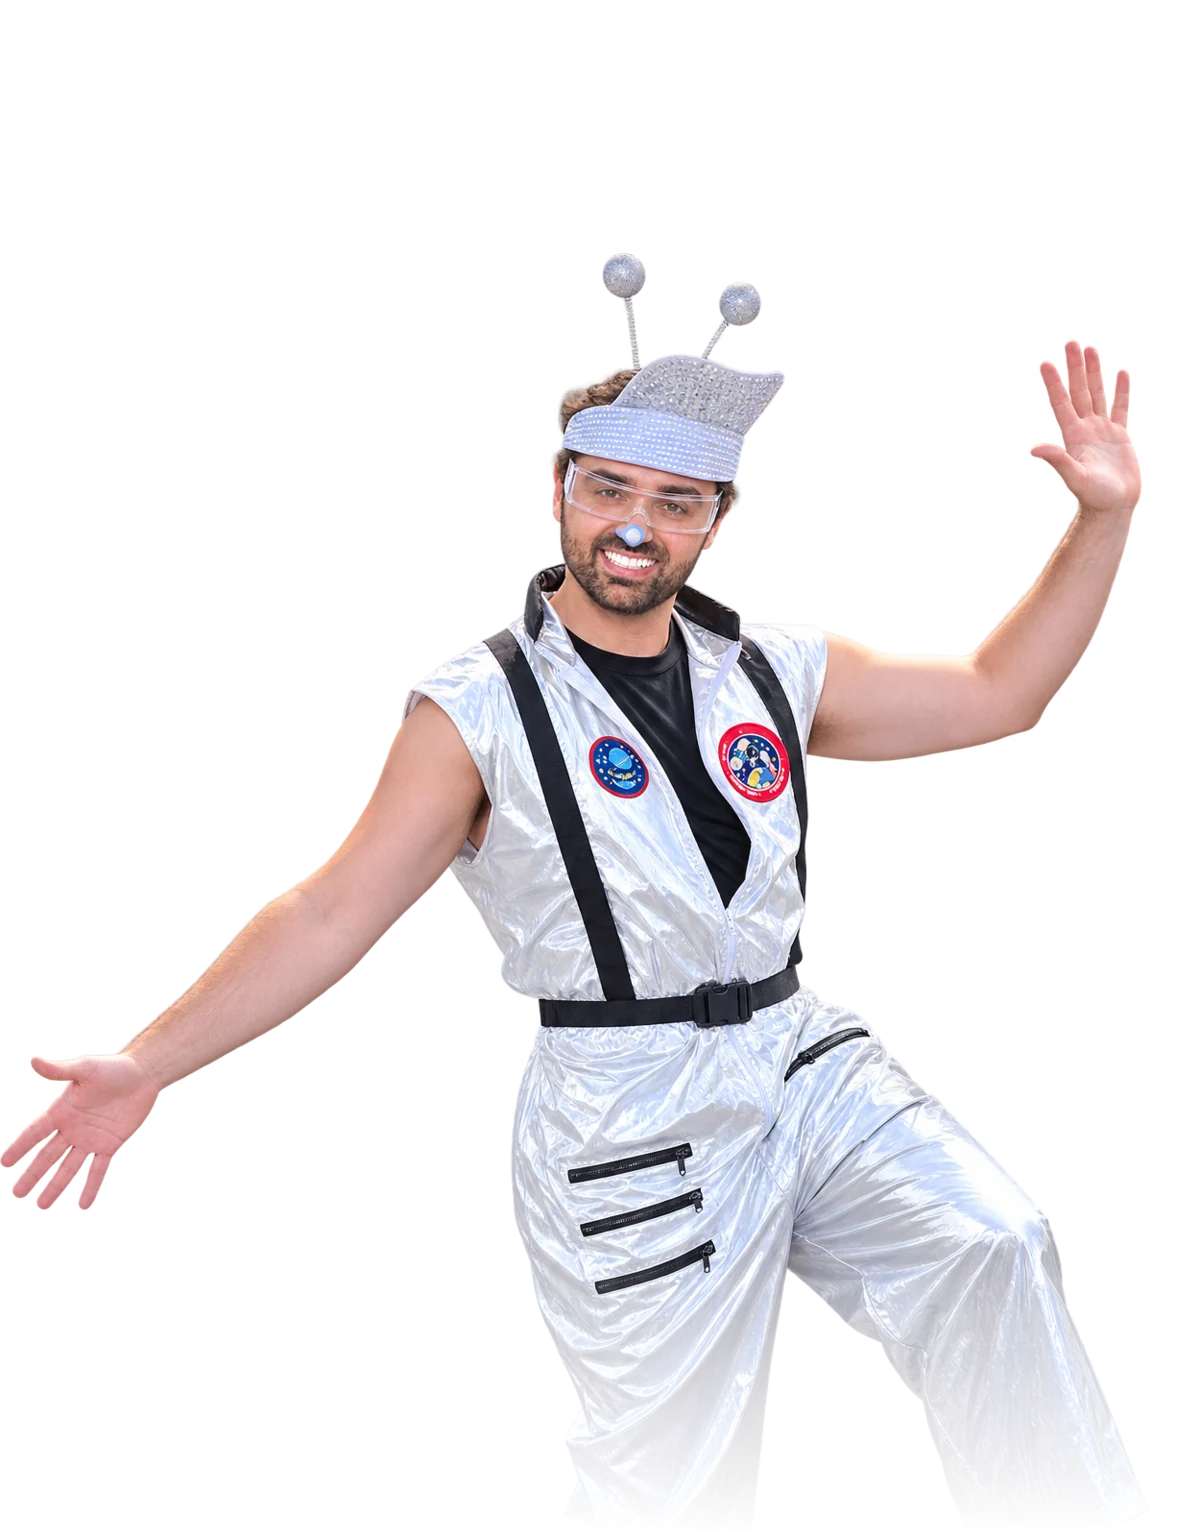
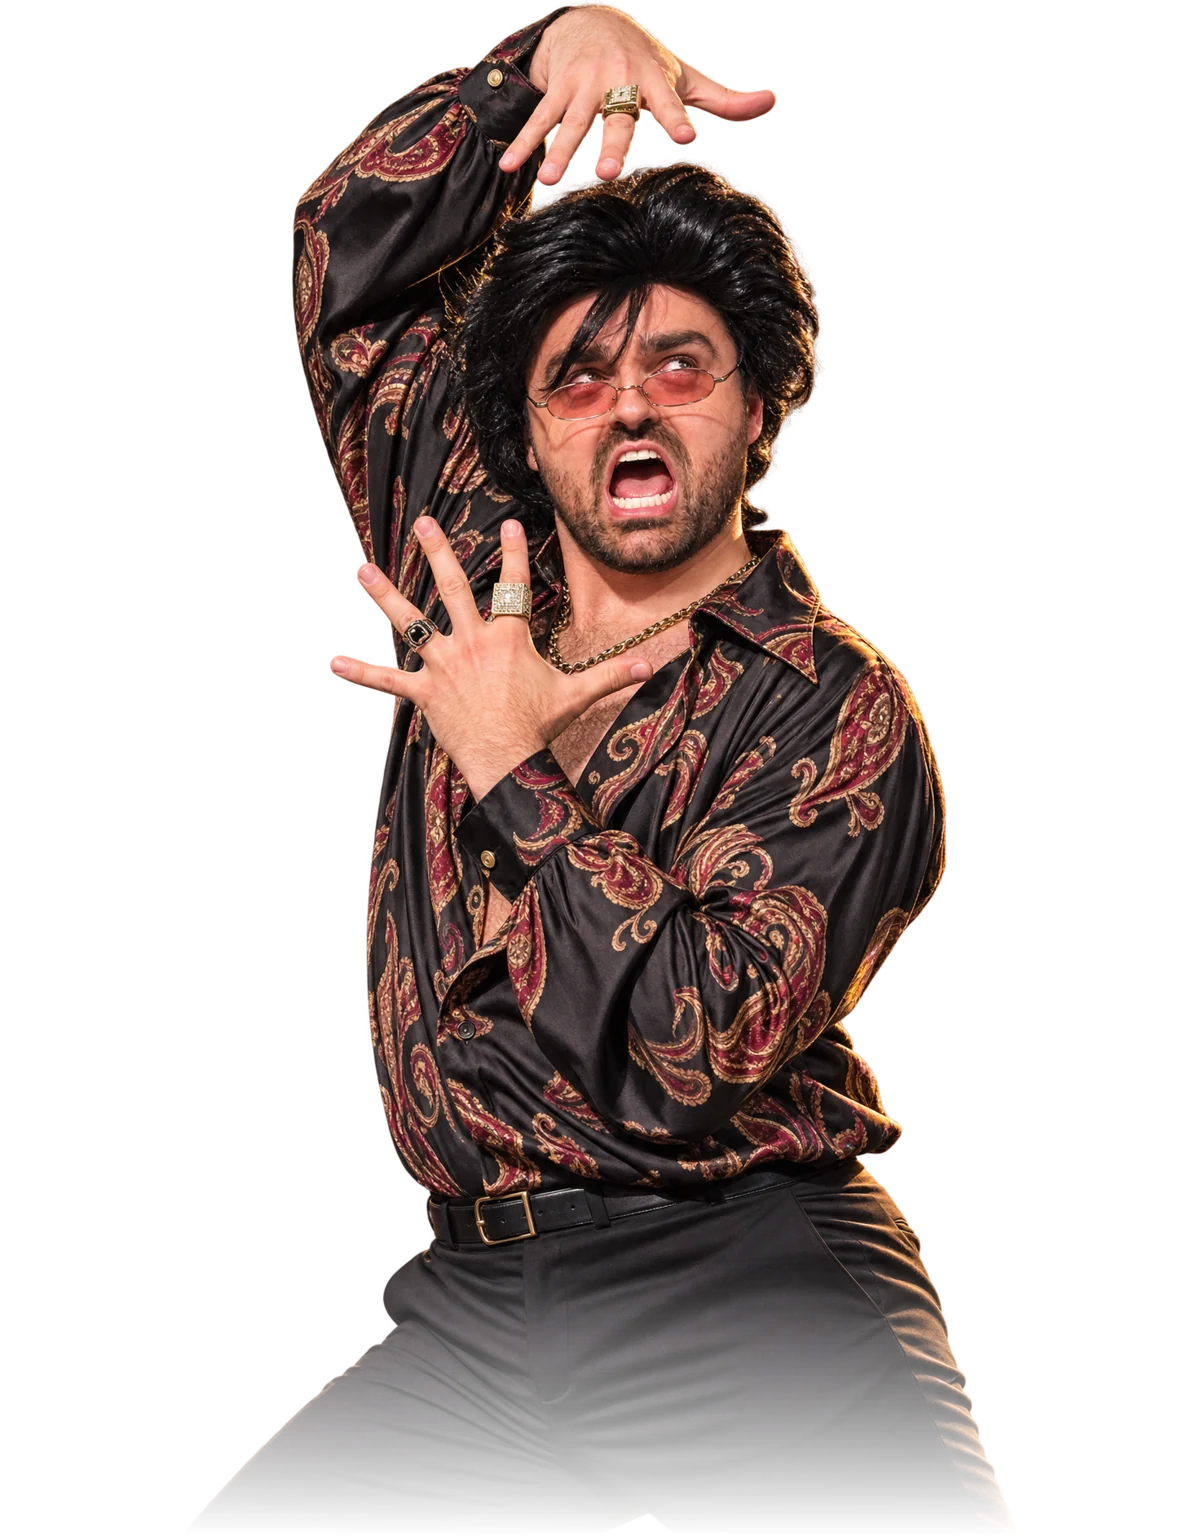
Hero : Grease retiré (7 lames), personnage loufoque = perruque noire et lunettes rosées
- Le personnage loufoque reprend celui de la photo « Dominic en action » (pose et cri fidèles),
  avec une chemise de satin cachemire pour ne pas doubler le Roi du disco
- Éventail rééquilibré à 7 lames autour de Dominic

diff --git a/index.html b/index.html
@@ -171,7 +171,6 @@
                     <li><button type="button" aria-pressed="false" aria-label="Voir : Maître de cirque"></button></li>
                     <li><button type="button" aria-pressed="false" aria-label="Voir : Crooner"></button></li>
                     <li><button type="button" aria-pressed="true" aria-label="Voir : Animateur"></button></li>
-                    <li><button type="button" aria-pressed="false" aria-label="Voir : Rockeur"></button></li>
                     <li><button type="button" aria-pressed="false" aria-label="Voir : DJ"></button></li>
                     <li><button type="button" aria-pressed="false" aria-label="Voir : Roi du disco"></button></li>
                     <li><button type="button" aria-pressed="false" aria-label="Voir : Personnage loufoque"></button></li>
@@ -183,10 +182,9 @@
             <img class="cam-fig" style="--k:-2;--d:2;--o:1;--side:-1" data-role="Maître de cirque" width="1200" height="1536" src="images/hero/cirque.webp" alt="Dominic en maître de cirque maquillé, redingote rouge et haut-de-forme" draggable="false">
             <img class="cam-fig" style="--k:-1;--d:1;--o:2;--side:-1" data-role="Crooner" width="1200" height="1536" src="images/hero/crooner.webp" alt="Dominic en crooner, foulard blanc et micro rétro" draggable="false">
             <img class="cam-fig is-active" style="--k:0;--d:0;--o:3;--side:-1" data-role="Animateur" width="1200" height="1536" src="images/hero/dominic.webp" alt="Dominic St-Laurent, veston bourgogne, micro en main" fetchpriority="high" draggable="false">
-            <img class="cam-fig" style="--k:1;--d:1;--o:4;--side:1" data-role="Rockeur" width="1200" height="1536" src="images/hero/rockabilly.webp" alt="Dominic en rockeur façon Grease, rasé de près, cheveux gominés" draggable="false">
-            <img class="cam-fig" style="--k:2;--d:2;--o:5;--side:1" data-role="DJ" width="1200" height="1536" src="images/hero/dj.webp" alt="Dominic en DJ, écouteurs et lunettes fumées" draggable="false">
-            <img class="cam-fig" style="--k:3;--d:3;--o:6;--side:1" data-role="Roi du disco" width="1200" height="1536" src="images/hero/disco.webp" alt="Dominic en chemise dorée disco" draggable="false">
-            <img class="cam-fig" style="--k:4;--d:4;--o:7;--side:1" data-role="Personnage loufoque" width="1200" height="1536" src="images/hero/loufoque.webp" alt="Dominic en personnage loufoque, combinaison argentée rétro" draggable="false">
+            <img class="cam-fig" style="--k:1;--d:1;--o:4;--side:1" data-role="DJ" width="1200" height="1536" src="images/hero/dj.webp" alt="Dominic en DJ, écouteurs et lunettes fumées" draggable="false">
+            <img class="cam-fig" style="--k:2;--d:2;--o:5;--side:1" data-role="Roi du disco" width="1200" height="1536" src="images/hero/disco.webp" alt="Dominic en chemise dorée disco" draggable="false">
+            <img class="cam-fig" style="--k:3;--d:3;--o:6;--side:1" data-role="Personnage loufoque" width="1200" height="1536" src="images/hero/loufoque.webp" alt="Dominic en personnage loufoque : perruque noire, lunettes rosées, pose dramatique" draggable="false">
             <!-- Base de l'éventail, deux versions à comparer : ?base=bandeau (défaut) ou ?base=couteau -->
             <img class="cam-knife" src="images/hero/couteau.webp" alt="" width="1400" height="336" aria-hidden="true" draggable="false">
             <p class="cam-band" aria-hidden="true"><span>Le couteau suisse de la scène</span></p>

diff --git a/css/refonte.css b/css/refonte.css
@@ -128,8 +128,8 @@ header.nav-hidden {
 /* ═════════════ HERO CAMÉLÉON : l'éventail de personnages ═════════════ */
 .cam-hero {
     --fig-h: min(74svh, 46vw);      /* hauteur d'un personnage */
-    --cx: 65%;                      /* centre de l'éventail dans le hero */
-    --spread: 11deg;                /* angle entre deux lames voisines */
+    --cx: 67%;                      /* centre de l'éventail dans le hero */
+    --spread: 12deg;                /* angle entre deux lames voisines */
     --knife-h: calc(var(--fig-h) * 0.165); /* hauteur du manche */
     --knife-b: 3.5svh;              /* distance entre le manche et le bas du hero */
     position: relative;
